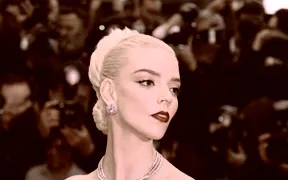
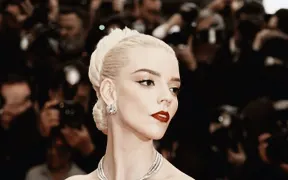
fix(filters): improve black gold parity

diff --git a/qcut/apps/web/src/lib/filters/jianying-parity/stylized-presets.ts b/qcut/apps/web/src/lib/filters/jianying-parity/stylized-presets.ts
@@ -118,27 +118,47 @@ export const JIANYING_STYLIZED_PARITY_FILTER_PRESETS: FilterPreset[] = [
 	},
 	{
 		id: "jy-black-gold",
-		version: 1,
+		version: 2,
 		name: "Black Gold",
 		localizedName: "黑金",
 		category: "stylized",
 		tags: ["stylized", "creative", "风格化", "创意", "黑金", "Black Gold"],
 		thumbnail: "/images/filter-previews/jy-black-gold.webp",
-		lutAssetId: "qcut/filter/jy-black-gold/v1",
+		lutAssetId: "qcut/filter/jy-black-gold/v2",
 		defaultIntensity: 100,
 		isNew: true,
 		recipe: {
-			exposure: 0.228,
-			gamma: 0.667,
-			blackLift: -0.045,
-			shadowTint: [0.35, -0.207, -0.35],
-			highlightTint: [0.308, -0.35, 0.35],
-			temperature: 1.2,
-			tint: -1.139,
-			contrast: 0.016,
-			saturation: 0.388,
-			hueShift: 15.3,
-			fade: 0.103,
+			polynomialCorrection: {
+				linear: [
+					[-0.2861, -0.0706, 0.0377],
+					[0.0306, -0.5702, -0.0008],
+					[0.0956, -0.6101, -0.2399],
+				],
+				squared: [
+					[2.4949, 1.0095, 0.1098],
+					[0.2474, 3.1084, 0.1054],
+					[-0.0829, 2.5401, 0.4523],
+				],
+				cross: [
+					[0.313, -0.0301, -0.1487],
+					[0.4945, -0.1077, -0.0187],
+					[0.0789, -0.0072, 0.9617],
+				],
+				cubic: {
+					pure: [
+						[-1.2999, -0.1244, 0.0154],
+						[-0.1862, -1.7491, -0.0262],
+						[-0.0853, -1.31, -0.2019],
+					],
+					mixed: [
+						[-0.4211, 0.0441, -0.6888, -0.1225, -0.1694, 0.078],
+						[-0.0213, 0.0619, -0.4285, -0.0453, -0.0379, -0.0162],
+						[0.0777, 0.0228, 0.1648, -0.8481, -0.1027, -0.0139],
+					],
+					triple: [0.1671, 0.0857, 0.0299],
+				},
+				offset: [0.0304, 0.0416, 0.0588],
+			},
 		},
 	},
 	{

diff --git a/qcut/apps/web/src/lib/filters/__tests__/filter-jianying-parity-presets.test.ts b/qcut/apps/web/src/lib/filters/__tests__/filter-jianying-parity-presets.test.ts
@@ -61,6 +61,7 @@ const EXPECTED_LOCALIZED_NAMES = [
 ];
 
 const UPGRADED_PRESET_VERSIONS: Record<string, number> = {
+	"jy-black-gold": 2,
 	"jy-ink-film": 2,
 	"jy-ink-wash": 2,
 	"jy-quiet-dark": 2,
